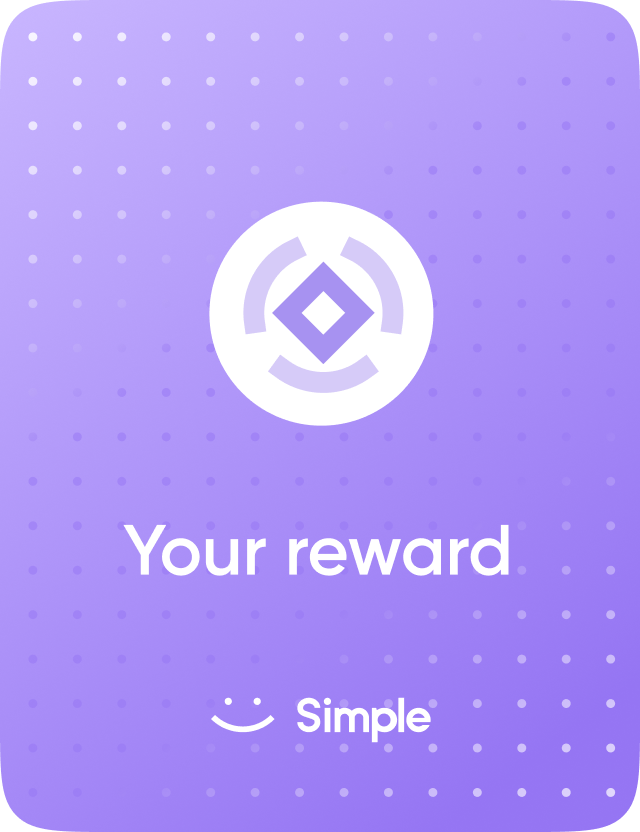
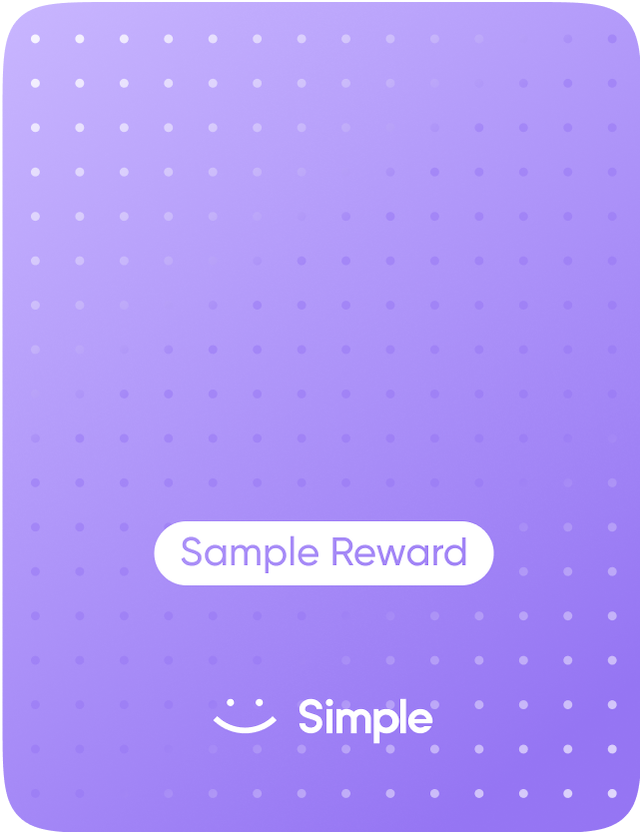
change coins by flip the card

diff --git a/lib/features/rewards_flow/ui/widgets/reward_share_card.dart b/lib/features/rewards_flow/ui/widgets/reward_share_card.dart
@@ -1,4 +1,5 @@
 import 'dart:async';
+import 'dart:math';
 
 import 'package:flutter/material.dart';
 import 'package:flutter/services.dart';
@@ -10,10 +11,20 @@ import 'package:jetwallet/core/services/logs/helpers/encode_query_parameters.dar
 import 'package:jetwallet/core/services/notification_service.dart';
 import 'package:jetwallet/core/services/signal_r/signal_r_service_new.dart';
 import 'package:jetwallet/utils/constants.dart';
+import 'package:jetwallet/utils/extension/double_extension.dart';
 import 'package:share_plus/share_plus.dart';
 import 'package:simple_analytics/simple_analytics.dart';
 import 'package:simple_kit/simple_kit.dart';
+import 'package:simple_kit_updated/simple_kit_updated.dart';
+import 'package:simple_networking/modules/remote_config/models/rewards_asset_model.dart';
 import 'package:url_launcher/url_launcher.dart';
+
+import '../../../../core/services/remote_config/remote_config_values.dart';
+import '../../../../utils/helpers/currency_from.dart';
+
+const _imgWidth = 160.0;
+const _imgHeight = 208.0;
+const _iconSize = 48.0;
 
 class RewardShareCard extends StatefulObserverWidget {
   const RewardShareCard({super.key});
@@ -24,19 +35,28 @@ class RewardShareCard extends StatefulObserverWidget {
 
 class _RewardShareCardState extends State<RewardShareCard> {
   late FlipCardController controller;
-
   late Timer timer;
+  late RewardsAssetModel? asset;
 
-  Duration animationDuration = const Duration(seconds: 3);
-  Duration delayedDuration = const Duration(seconds: 4);
+  Duration animationDuration = const Duration(milliseconds: 500);
 
   @override
   void initState() {
     controller = FlipCardController();
+    asset = rewardsAssets.isNotEmpty ? rewardsAssets[Random().nextInt(rewardsAssets.length)] : null;
 
-    timer = Timer.periodic(animationDuration, (timer) async {
-      await controller.flipcard();
-      await Future.delayed(delayedDuration);
+    timer = Timer.periodic(const Duration(seconds: 4), (timer) async {
+      await controller.flipcard().then((value) {
+        if (rewardsAssets.isNotEmpty) {
+          setState(() {
+            asset = rewardsAssets[Random().nextInt(rewardsAssets.length)];
+          });
+        }
+      });
+
+      Timer(const Duration(seconds: 1), () async {
+        await controller.flipcard();
+      });
     });
 
     super.initState();
@@ -65,6 +85,24 @@ class _RewardShareCardState extends State<RewardShareCard> {
   @override
   Widget build(BuildContext context) {
     final shareText = "${intl.reward_share_main_text}\n\n${sSignalRModules.rewardsData?.referralLink ?? ''}";
+    final currentAsset = asset;
+    final icon = currentAsset != null
+        ? SNetworkCachedSvg(
+            url: currencyFrom(
+              sSignalRModules.currenciesList,
+              currentAsset.name,
+            ).iconUrl,
+            width: _iconSize,
+            height: _iconSize,
+            placeholder: const SizedBox(
+              width: _iconSize,
+              height: _iconSize,
+            ),
+          )
+        : Assets.svg.assets.crypto.defaultPlaceholderPurple.simpleSvg(
+            width: _iconSize,
+            height: _iconSize,
+          );
 
     return SPaddingH24(
       child: Container(
@@ -120,15 +158,56 @@ class _RewardShareCardState extends State<RewardShareCard> {
                         rotateSide: RotateSide.right,
                         controller: controller,
                         animationDuration: animationDuration,
-                        frontWidget: Image.asset(
-                          simpleRewardCardFront,
-                          width: 168.89,
-                          height: 213.33,
+                        frontWidget: Stack(
+                          children: [
+                            Image.asset(
+                              simpleRewardCardFront,
+                              width: _imgWidth,
+                              height: _imgHeight,
+                            ),
+                            Positioned(
+                              top: 39,
+                              left: 0,
+                              right: 0,
+                              child: Row(
+                                mainAxisAlignment: MainAxisAlignment.center,
+                                children: [
+                                  Container(
+                                    decoration: BoxDecoration(
+                                      borderRadius: BorderRadius.circular(48),
+                                      border: Border.all(
+                                        color: SColorsLight().white,
+                                        width: 4.33,
+                                      ),
+                                    ),
+                                    child: icon,
+                                  ),
+                                ],
+                              ),
+                            ),
+                            if (currentAsset != null)
+                              Positioned(
+                                top: 106,
+                                left: 0,
+                                right: 0,
+                                child: Text(
+                                  '${currentAsset.value.formatNumber()} ${currentAsset.name}',
+                                  textAlign: TextAlign.center,
+                                  style: TextStyle(
+                                    height: 1.23,
+                                    fontSize: 17.78,
+                                    fontFamily: 'Gilroy',
+                                    fontWeight: FontWeight.w600,
+                                    color: SColorsLight().white,
+                                  ),
+                                ),
+                              ),
+                          ],
                         ),
                         backWidget: Image.asset(
                           simpleRewardCardRevers,
-                          width: 168.89,
-                          height: 213.33,
+                          width: _imgWidth,
+                          height: _imgHeight,
                         ),
                       ),
                     ),

diff --git a/plugins/simple_kit_updated/lib/gen/assets.gen.dart b/plugins/simple_kit_updated/lib/gen/assets.gen.dart
@@ -8,8 +8,9 @@
 // ignore_for_file: directives_ordering,unnecessary_import,implicit_dynamic_list_literal,deprecated_member_use
 
 import 'package:flutter/widgets.dart';
-import 'package:flutter_svg/flutter_svg.dart';
 import 'package:flutter/services.dart';
+import 'package:flutter_svg/flutter_svg.dart';
+import 'package:vector_graphics/vector_graphics.dart';
 
 class $AssetsImagesGen {
   const $AssetsImagesGen();
@@ -24,26 +25,45 @@ class $AssetsImagesGen {
 class $AssetsSvgGen {
   const $AssetsSvgGen();
 
+  /// Directory path: assets/svg/assets
   $AssetsSvgAssetsGen get assets => const $AssetsSvgAssetsGen();
+
+  /// Directory path: assets/svg/brand
   $AssetsSvgBrandGen get brand => const $AssetsSvgBrandGen();
+
+  /// Directory path: assets/svg/invest
   $AssetsSvgInvestGen get invest => const $AssetsSvgInvestGen();
+
+  /// Directory path: assets/svg/large
   $AssetsSvgLargeGen get large => const $AssetsSvgLargeGen();
+
+  /// Directory path: assets/svg/medium
   $AssetsSvgMediumGen get medium => const $AssetsSvgMediumGen();
+
+  /// Directory path: assets/svg/other
   $AssetsSvgOtherGen get other => const $AssetsSvgOtherGen();
+
+  /// Directory path: assets/svg/payment_methods_cards
   $AssetsSvgPaymentMethodsCardsGen get paymentMethodsCards => const $AssetsSvgPaymentMethodsCardsGen();
+
+  /// Directory path: assets/svg/small
   $AssetsSvgSmallGen get small => const $AssetsSvgSmallGen();
 }
 
 class $AssetsSvgAssetsGen {
   const $AssetsSvgAssetsGen();
 
+  /// Directory path: assets/svg/assets/crypto
   $AssetsSvgAssetsCryptoGen get crypto => const $AssetsSvgAssetsCryptoGen();
+
+  /// Directory path: assets/svg/assets/fiat
   $AssetsSvgAssetsFiatGen get fiat => const $AssetsSvgAssetsFiatGen();
 }
 
 class $AssetsSvgBrandGen {
   const $AssetsSvgBrandGen();
 
+  /// Directory path: assets/svg/brand/small
   $AssetsSvgBrandSmallGen get small => const $AssetsSvgBrandSmallGen();
 }
 
@@ -483,7 +503,10 @@ class $AssetsSvgOtherGen {
   /// File path: assets/svg/other/happy_simple_small.svg
   SvgGenImage get happySimpleSmall => const SvgGenImage('assets/svg/other/happy_simple_small.svg');
 
+  /// Directory path: assets/svg/other/large
   $AssetsSvgOtherLargeGen get large => const $AssetsSvgOtherLargeGen();
+
+  /// Directory path: assets/svg/other/medium
   $AssetsSvgOtherMediumGen get medium => const $AssetsSvgOtherMediumGen();
 
   /// File path: assets/svg/other/sad_simple_large.svg
@@ -492,6 +515,7 @@ class $AssetsSvgOtherGen {
   /// File path: assets/svg/other/sad_simple_small.svg
   SvgGenImage get sadSimpleSmall => const SvgGenImage('assets/svg/other/sad_simple_small.svg');
 
+  /// Directory path: assets/svg/other/small
   $AssetsSvgOtherSmallGen get small => const $AssetsSvgOtherSmallGen();
 
   /// List of all assets
@@ -501,6 +525,7 @@ class $AssetsSvgOtherGen {
 class $AssetsSvgPaymentMethodsCardsGen {
   const $AssetsSvgPaymentMethodsCardsGen();
 
+  /// Directory path: assets/svg/payment_methods_cards/simple
   $AssetsSvgPaymentMethodsCardsSimpleGen get simple => const $AssetsSvgPaymentMethodsCardsSimpleGen();
 }
 
@@ -557,11 +582,15 @@ class $AssetsSvgAssetsCryptoGen {
   /// File path: assets/svg/assets/crypto/default_placeholder.svg
   SvgGenImage get defaultPlaceholder => const SvgGenImage('assets/svg/assets/crypto/default_placeholder.svg');
 
+  /// File path: assets/svg/assets/crypto/default_placeholder_purple.svg
+  SvgGenImage get defaultPlaceholderPurple =>
+      const SvgGenImage('assets/svg/assets/crypto/default_placeholder_purple.svg');
+
   /// File path: assets/svg/assets/crypto/smpl.svg
   SvgGenImage get smpl => const SvgGenImage('assets/svg/assets/crypto/smpl.svg');
 
   /// List of all assets
-  List<SvgGenImage> get values => [defaultPlaceholder, smpl];
+  List<SvgGenImage> get values => [defaultPlaceholder, defaultPlaceholderPurple, smpl];
 }
 
 class $AssetsSvgAssetsFiatGen {
@@ -699,9 +728,11 @@ class Assets {
 }
 
 class AssetGenImage {
-  const AssetGenImage(this._assetName);
+  const AssetGenImage(this._assetName, {this.size = null});
 
   final String _assetName;
+
+  final Size? size;
 
   Image image({
     Key? key,
@@ -773,9 +804,20 @@ class AssetGenImage {
 }
 
 class SvgGenImage {
-  const SvgGenImage(this._assetName);
+  const SvgGenImage(
+    this._assetName, {
+    this.size = null,
+  }) : _isVecFormat = false;
+
+  const SvgGenImage.vec(
+    this._assetName, {
+    this.size = null,
+  }) : _isVecFormat = true;
 
   final String _assetName;
+
+  final Size? size;
+  final bool _isVecFormat;
 
   SvgPicture svg({
     Key? key,
@@ -790,19 +832,19 @@ class SvgGenImage {
     WidgetBuilder? placeholderBuilder,
     String? semanticsLabel,
     bool excludeFromSemantics = false,
-    SvgTheme theme = const SvgTheme(),
+    SvgTheme? theme,
     ColorFilter? colorFilter,
     Clip clipBehavior = Clip.hardEdge,
     @deprecated Color? color,
     @deprecated BlendMode colorBlendMode = BlendMode.srcIn,
     @deprecated bool cacheColorFilter = false,
   }) {
-    return SvgPicture.asset(
-      _assetName,
+    return SvgPicture(
+      _isVecFormat
+          ? AssetBytesLoader(_assetName, assetBundle: bundle, packageName: package)
+          : SvgAssetLoader(_assetName, assetBundle: bundle, packageName: package),
       key: key,
       matchTextDirection: matchTextDirection,
-      bundle: bundle,
-      package: package,
       width: width,
       height: height,
       fit: fit,
@@ -812,9 +854,7 @@ class SvgGenImage {
       semanticsLabel: semanticsLabel,
       excludeFromSemantics: excludeFromSemantics,
       theme: theme,
-      colorFilter: colorFilter,
-      color: color,
-      colorBlendMode: colorBlendMode,
+      colorFilter: colorFilter ?? (color == null ? null : ColorFilter.mode(color, colorBlendMode)),
       clipBehavior: clipBehavior,
       cacheColorFilter: cacheColorFilter,
     );

diff --git a/plugins/simple_networking/lib/modules/remote_config/models/remote_config_appconfig_model.dart b/plugins/simple_networking/lib/modules/remote_config/models/remote_config_appconfig_model.dart
@@ -1,5 +1,7 @@
 import 'package:freezed_annotation/freezed_annotation.dart';
 
+import 'rewards_asset_model.dart';
+
 part 'remote_config_appconfig_model.freezed.dart';
 part 'remote_config_appconfig_model.g.dart';
 
@@ -43,6 +45,7 @@ class RemoteConfigAppconfigModel with _$RemoteConfigAppconfigModel {
     @Default('https://t.me/Simple_Tap_Bot') String simpleTapLink,
     @Default(true) bool usePhoneForSendGift,
     @Default(3) int simpleCoinRoadmapCompletedSteep,
+    @Default([]) List<RewardsAssetModel> rewardsAssets,
   }) = _RemoteConfigAppconfigModel;
 
   factory RemoteConfigAppconfigModel.fromJson(Map<String, dynamic> json) => _$RemoteConfigAppconfigModelFromJson(json);

diff --git a/lib/core/services/remote_config/remote_config_values.dart b/lib/core/services/remote_config/remote_config_values.dart
@@ -1,4 +1,6 @@
 // AppConfig
+import 'package:simple_networking/modules/remote_config/models/rewards_asset_model.dart';
+
 late int emailVerificationCodeLength;
 late int phoneVerificationCodeLength;
 late String userAgreementLink;
@@ -36,6 +38,7 @@ String simpleCoinDisclaimerLink = '';
 String simpleTapLink = '';
 bool usePhoneForSendGift = true;
 int simpleCoinRoadmapCompletedSteep = 3;
+List<RewardsAssetModel> rewardsAssets = [];
 
 // Versioning
 late String recommendedVersion;

diff --git a/plugins/simple_networking/lib/modules/remote_config/models/rewards_asset_model.dart b/plugins/simple_networking/lib/modules/remote_config/models/rewards_asset_model.dart
@@ -1,0 +1,14 @@
+import 'package:freezed_annotation/freezed_annotation.dart';
+
+part 'rewards_asset_model.freezed.dart';
+part 'rewards_asset_model.g.dart';
+
+@freezed
+class RewardsAssetModel with _$RewardsAssetModel {
+  factory RewardsAssetModel({
+    required String name,
+    required double value,
+  }) = _RewardsAssetModel;
+
+  factory RewardsAssetModel.fromJson(Map<String, dynamic> json) => _$RewardsAssetModelFromJson(json);
+}

diff --git a/lib/core/services/remote_config/remote_config.dart b/lib/core/services/remote_config/remote_config.dart
@@ -191,6 +191,7 @@ class RemoteConfig {
     simpleTapLink = remoteConfig!.appConfig.simpleTapLink;
     usePhoneForSendGift = remoteConfig!.appConfig.usePhoneForSendGift;
     simpleCoinRoadmapCompletedSteep = remoteConfig!.appConfig.simpleCoinRoadmapCompletedSteep;
+    rewardsAssets = remoteConfig!.appConfig.rewardsAssets;
   }
 
   void overrideVersioningValues() {

diff --git a/lib/utils/extension/double_extension.dart b/lib/utils/extension/double_extension.dart
@@ -1,0 +1,9 @@
+import 'package:intl/intl.dart';
+
+extension DoubleExtension on double {
+  String formatNumber() {
+    final formatter = NumberFormat.decimalPattern();
+
+    return formatter.format(this).replaceAll(',', ' ');
+  }
+}
